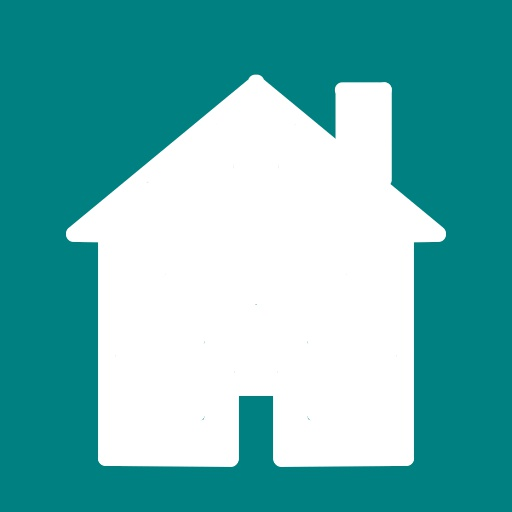
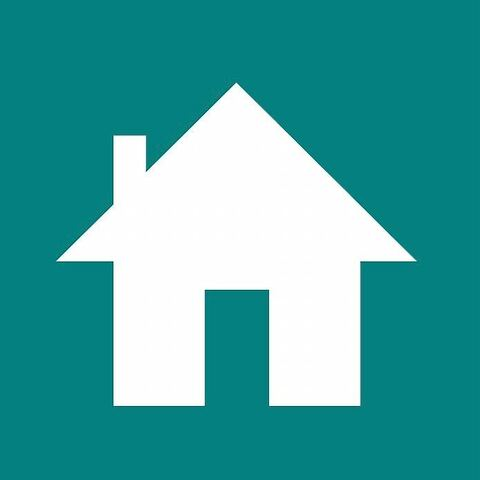
ホームボタンと設定ボタンの画像変更＋そのボタンのborderをnoneに
ホームボタンと設定ボタンの画像変更＋そのボタンのborderをnoneに

Changed region(s): [[0.0938, 0.125, 0.875, 0.9375]]

diff --git a/public/typhoonQuiz/typhoonQuiz.html b/public/typhoonQuiz/typhoonQuiz.html
@@ -15,7 +15,7 @@
       </div>
       <div class="panel"></div>
       <div class="sideArea">
-        <image-button imagePath="../image/haguruma2.png" buttonId="haguruma2"  url="../多分ライセンスとか.html"></custom-button>
+        <image-button imagePath="../image/haguruma.jpg" buttonId="haguruma2"  url="../多分ライセンスとか.html"></custom-button>
       </div>
     </main>
   </body>

diff --git a/public/Components/imageButtonComponent.js b/public/Components/imageButtonComponent.js
@@ -14,6 +14,7 @@ class ImageButton extends HTMLElement{
                 background-repeat: no-repeat;
                 background-size: 100% 100%;
                 background-position: center;
+                border: none;
                 width:100%;
                 height:10%;
             }
